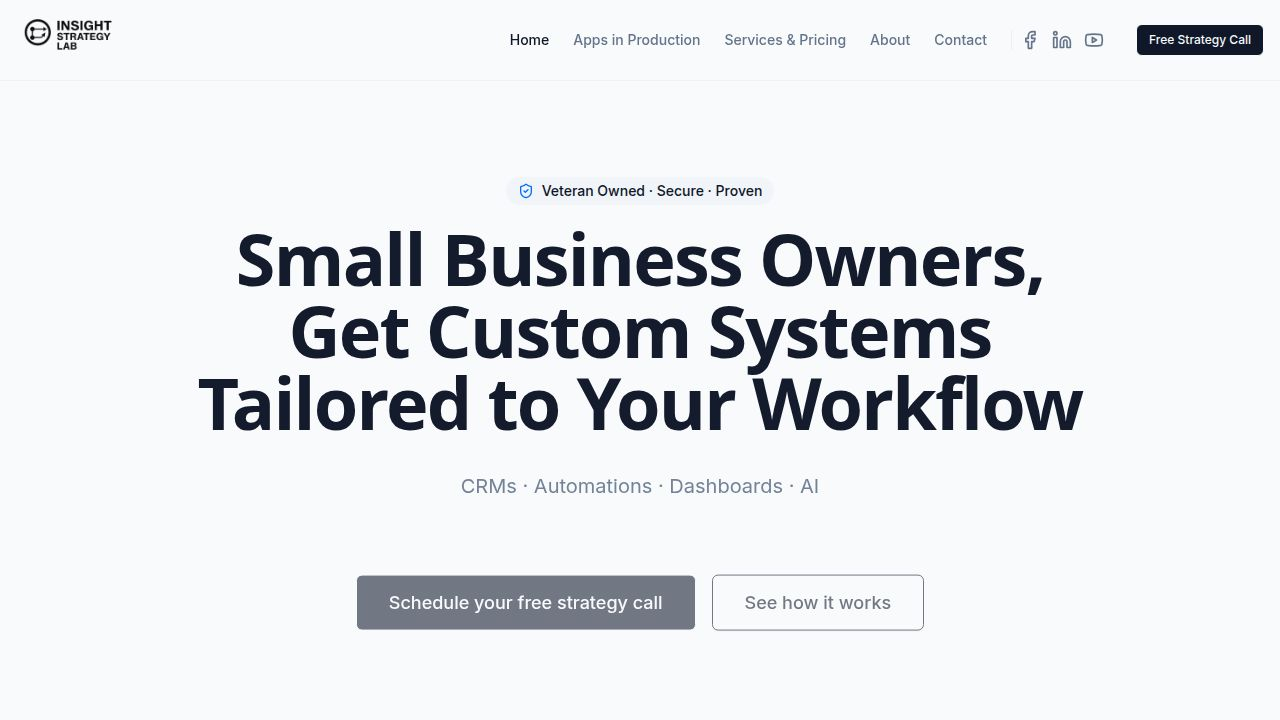
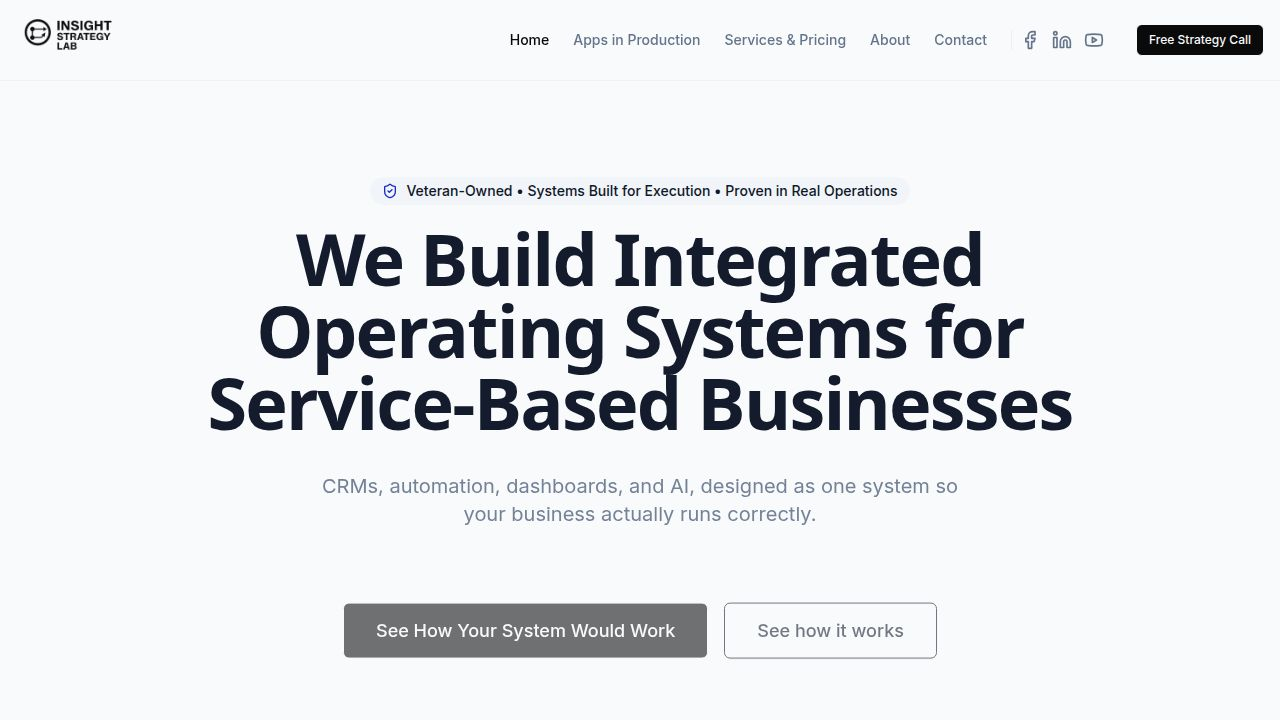
Fix sign-out redirect to prevent blank pages and return users to the home page
Correct wouter nested routing behavior to ensure proper redirection after sign-out by using the "~" absolute path prefix.

Replit-Commit-Author: Agent
Replit-Commit-Session-Id: 49561bf3-c657-4471-be16-0310b07b5b53
Replit-Commit-Checkpoint-Type: full_checkpoint
Replit-Commit-Event-Id: eaa7b32b-3ce2-4a9b-b107-5ffdbd69922e
Replit-Commit-Screenshot-Url: https://storage.googleapis.com/screenshot-production-us-central1/1a2adfc3-0ff8-43ed-98ea-9fed546498c1/49561bf3-c657-4471-be16-0310b07b5b53/EHBtZOR
Replit-Helium-Checkpoint-Created: true

diff --git a/artifacts/insight-strategy-lab/src/components/layout/AdminLayout.tsx b/artifacts/insight-strategy-lab/src/components/layout/AdminLayout.tsx
@@ -10,9 +10,11 @@ export default function AdminLayout({ children }: { children: React.ReactNode })
 
   useEffect(() => {
     // A session alone is not enough — only owners on the app_admins allowlist
-    // may enter the admin shell. Sign out any non-owner session to avoid loops.
+    // may enter the admin shell. Sign out any non-owner session and return to
+    // the public site. Use the "~" prefix so navigation ignores the nested
+    // "/admin" router base (otherwise it resolves to "/admin/...").
     if (!loading && !isAdmin) {
-      signOut().finally(() => setLocation("/admin/login"));
+      signOut().finally(() => setLocation("~/"));
     }
   }, [loading, isAdmin, setLocation]);
 
@@ -40,7 +42,9 @@ export default function AdminLayout({ children }: { children: React.ReactNode })
         <button 
           onClick={async () => {
             await signOut();
-            setLocation("/admin/login");
+            // "~" navigates relative to the root router, escaping the nested
+            // "/admin" base so the owner lands back on the public home page.
+            setLocation("~/");
           }} 
           className="flex items-center gap-2 text-sm text-muted-foreground hover:text-foreground transition-colors font-medium"
         >

diff --git a/.agents/memory/wouter-nested-routes.md b/.agents/memory/wouter-nested-routes.md
@@ -1,0 +1,26 @@
+---
+name: Wouter nested-route navigation (insight-strategy-lab)
+description: Navigating with setLocation from inside a wouter <Route nest> must use the "~" absolute prefix, or paths get the nested base prepended.
+---
+
+# Navigating out of a nested wouter router
+
+Admin routes are mounted under `<Route path="/admin" nest>` and `AdminLayout`
+renders inside it. Any `useLocation()` obtained inside that subtree is scoped to
+the `/admin` base, so `setLocation("/admin/login")` resolves to
+`/admin/admin/login` (base is prepended), which matches nothing.
+
+**Symptom:** signing out of admin left a blank page / redirect loop — the guard
+effect kept firing the broken redirect while `AdminLayout` rendered `null`.
+
+**Fix / rule:** to navigate to an app-root path from inside a nested router, use
+wouter's `~` prefix, e.g. `setLocation("~/")` (public home) or
+`setLocation("~/admin/login")`. The `~` escapes the nested base and resolves
+relative to the top `<Router base=...>`.
+
+**Why:** wouter (v3) scopes nested routers; non-`~` paths are always relative to
+the nearest router base.
+
+**How to apply:** components rendered under any `<Route nest>` (currently the
+admin shell) must use `~`-prefixed targets when sending the user outside that
+nest. Top-level pages like Login (rendered by the outer Switch) do not need it.

diff --git a/.agents/memory/MEMORY.md b/.agents/memory/MEMORY.md
@@ -1,2 +1,3 @@
 - [Supabase RLS + env pitfalls](supabase-rls-and-env.md) — browser-direct app: scope admin via is_admin(); VITE_ env baked at boot; DB password breaks libpq URI.
 - [Content-override CMS pattern](content-overrides-cms.md) — content_blocks = overrides over in-code defaults; apply empty rows so clears stick; save changed-or-existing keys.
+- [Wouter nested routes](wouter-nested-routes.md) — setLocation inside a `<Route nest>` (admin shell) needs the `~` prefix to escape the nested base, else blank/redirect loop.